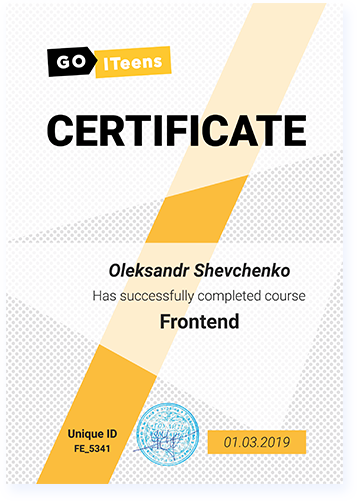
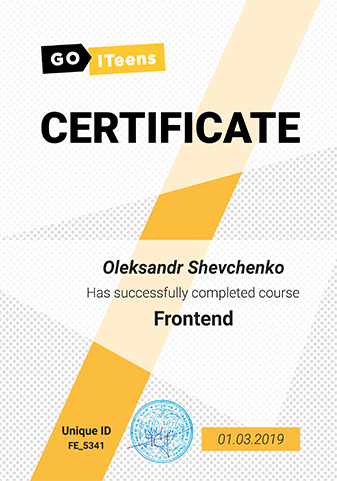
111

diff --git a/src/html/sections/certificate.html b/src/html/sections/certificate.html
@@ -1,17 +1,17 @@
 <section>
   <div class="container certificate-wrapper">
-    <div>
-      <h2 class="certificate-title">
+    <div class="certificate-container">
+      <h3 class="certificate-title">
         <span class="certificate-title__item">[</span> сертифікат_
         <span class="certificate-title__item">]</span>
-      </h2>
+      </h3>
       <p class="certificate-text">
         Після успішного складання командного проекту студенти GoITeens отримують
         сертифікат
       </p>
     </div>
-    <div>
-      <div>
+    <div class="certificate-img">
+      <div class="certificate-img__back">
         <img
           src="././images/certificate/certificate-3.png"
           alt=""
@@ -25,7 +25,7 @@
           height="449"
         />
       </div>
-      <div>
+      <div class="certificate-img__front">
         <img
           src="././images/certificate/certificate-1.png"
           alt=""

diff --git a/src/sass/sections/certificate.scss b/src/sass/sections/certificate.scss
@@ -1,11 +1,24 @@
 .certificate-wrapper {
   display: flex;
+  justify-content: space-around;
+  text-align: left;
+  background-image: url('../images/svg/section-4-bg.svg');
+  background-repeat: no-repeat;
+  /*background-position: center;*/
+}
+
+.certificate-container {
+  background-image: url('../images/svg/planet.svg');
+  background-repeat: no-repeat;
+  font-size: 35px;
+  width: 504px;
 }
 
 .certificate-title {
   font-family: 'Oswald-Bold';
   text-transform: uppercase;
   color: $bbc;
+  margin-bottom: 27px;
 
   &__item {
     color: $TFixColor;
@@ -14,4 +27,19 @@
 
 .certificate-text {
   color: $bbc;
+}
+
+.certificate-img {
+  width: 661px;
+  position: relative;
+
+  &__back {
+    flex-wrap: nowrap;
+  }
+  &__front {
+    position: absolute;
+    /*left: 0;
+    top: 0;*/
+    transform: translate (-50%, -50%);
+  }
 }
